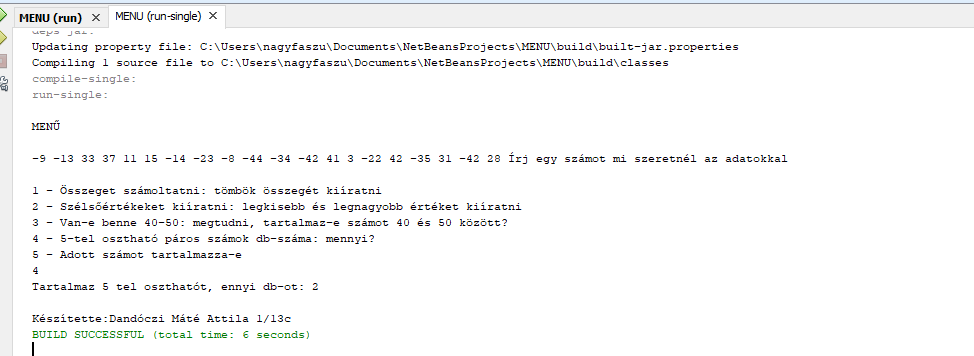
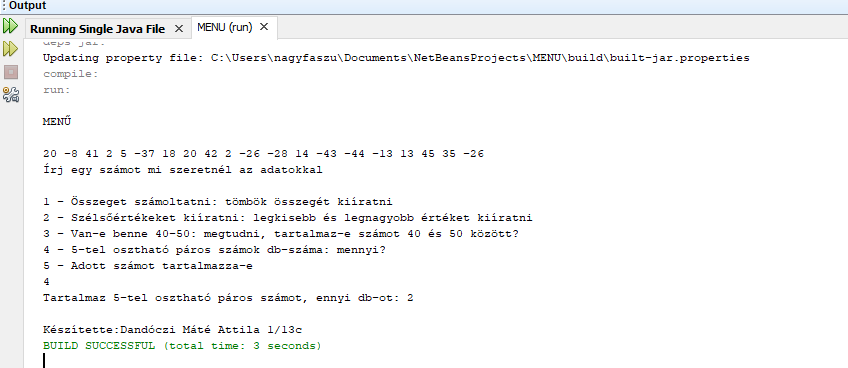
Add files via upload

diff --git a/MENU.java b/MENU.java
@@ -33,7 +33,7 @@ public class MENU {
             System.out.print(szamok[i]+" ");
         }
         //5. Ekkor kérdezd meg a felhasználót, mit szeretne tenni az adatokkal:
-        System.out.println("Írj egy számot mi szeretnél az adatokkal \n");
+        System.out.println("\nÍrj egy számot mi szeretnél az adatokkal \n");
         System.out.println("1 - Összeget számoltatni: tömbök összegét kiíratni");
         System.out.println("2 - Szélsőértékeket kiíratni: legkisebb és legnagyobb értéket kiíratni");
         System.out.println("3 - Van-e benne 40-50: megtudni, tartalmaz-e számot 40 és 50 között?");
@@ -85,15 +85,15 @@ public class MENU {
                 case 4:     //     4 - 5-tel osztható páros számok db-száma: mennyi?
                     int db = 0;
                     for(int i =0;i<20;i++){
-                        if(szamok[i]%5==0){
+                        if(szamok[i]%5==0&&szamok[i]%2==0){
                             db++;
                         }
                     }
                     if(db!=0){
-                        System.out.println("Tartalmaz 5 tel oszthatót, ennyi db-ot: "+db);
+                        System.out.println("Tartalmaz 5-tel osztható páros számot, ennyi db-ot: "+db);
                     }
                     else{
-                        System.out.println("Nem tartalmaz 5 tel osztható számot");
+                        System.out.println("Nem tartalmaz 5-tel osztható páros számot");
                     }
                     break;
                     //code
